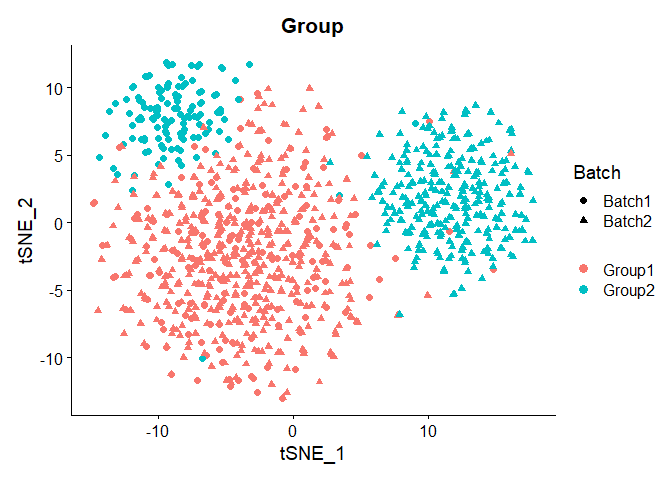
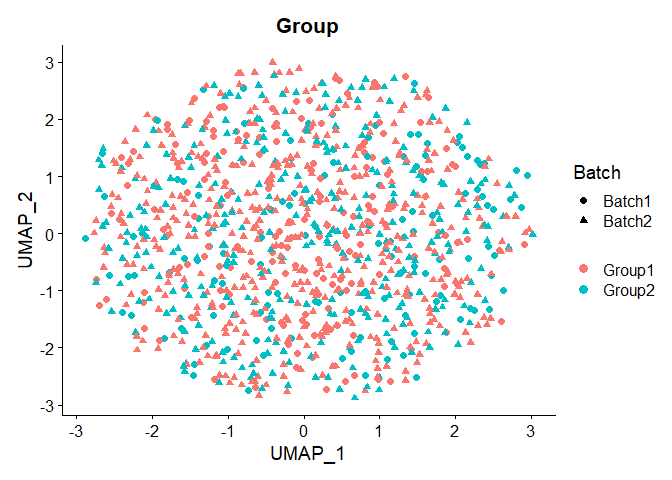
update

diff --git a/doc/Incomplete-association-simulation-with-Splatter.md b/doc/Incomplete-association-simulation-with-Splatter.md
@@ -1,6 +1,12 @@
 Incomplete association simulation with Splatter
 ================
 
+``` r
+rm(list=ls())
+
+library(splatter)
+```
+
     ## Loading required package: SingleCellExperiment
 
     ## Loading required package: SummarizedExperiment
@@ -95,6 +101,10 @@ Incomplete association simulation with Splatter
     ## 
     ##     anyMissing, rowMedians
 
+``` r
+library(Seurat)
+```
+
     ## Registered S3 method overwritten by 'spatstat.geom':
     ##   method     from
     ##   print.boxx cli
@@ -107,6 +117,21 @@ Incomplete association simulation with Splatter
     ## The following object is masked from 'package:SummarizedExperiment':
     ## 
     ##     Assays
+
+``` r
+sparsity_level = .95
+
+sim <- splatSimulate(group.prob=c(0.6, 0.4), nGenes=5000, batchCells=c(300, 750),
+                     dropout.type='experiment', method= 'groups' ,seed=17, dropout.shape=-1, 
+                     dropout.mid=3.9, 
+                     de.prob = c(0.05, 0.05),
+                     de.downProb = c(0.4, 0.4),
+                     de.facLoc = 0.05,
+                     de.facScale = 0.05,
+                     batch.facLoc=0.01,
+                     batch.facScale=0.01
+                    )
+```
 
     ## Getting parameters...
 
@@ -150,7 +175,18 @@ Incomplete association simulation with Splatter
 
     ## Done!
 
+``` r
+tmpcount = counts(sim)
+colsum = colSums(tmpcount == 0)
+simsparsity = sum(colsum)/(5000*(300 + 750))
+print("raw sparsity")
+```
+
     ## [1] "raw sparsity"
+
+``` r
+print(simsparsity)
+```
 
     ## [1] 0.8957535
 
@@ -216,7 +252,7 @@ seu <- SCTransform(seu)
 
     ## Calculating gene attributes
 
-    ## Wall clock passed: Time difference of 10.07501 secs
+    ## Wall clock passed: Time difference of 10.51683 secs
 
     ## Determine variable features
 
@@ -230,13 +266,40 @@ seu <- SCTransform(seu)
 # PCA
 seu <- RunPCA(seu, npcs = 30, verbose = FALSE)
 # TSNE
-seu <- RunTSNE(seu, dims = 1:30, seed.use = 7968)
+seu <- RunUMAP(seu, dims = 1:30, seed.use = 7968)
+```
 
-DimPlot(seu, reduction = "tsne",
+    ## Warning: The default method for RunUMAP has changed from calling Python UMAP via reticulate to the R-native UWOT using the cosine metric
+    ## To use Python UMAP via reticulate, set umap.method to 'umap-learn' and metric to 'correlation'
+    ## This message will be shown once per session
+
+    ## 09:20:12 UMAP embedding parameters a = 0.9922 b = 1.112
+
+    ## 09:20:12 Read 1050 rows and found 30 numeric columns
+
+    ## 09:20:12 Using Annoy for neighbor search, n_neighbors = 30
+
+    ## 09:20:12 Building Annoy index with metric = cosine, n_trees = 50
+
+    ## 0%   10   20   30   40   50   60   70   80   90   100%
+
+    ## [----|----|----|----|----|----|----|----|----|----|
+
+    ## **************************************************|
+    ## 09:20:12 Writing NN index file to temp file C:\Users\Hai\AppData\Local\Temp\RtmpATEtQ6\file394065b11dcf
+    ## 09:20:12 Searching Annoy index using 1 thread, search_k = 3000
+    ## 09:20:12 Annoy recall = 100%
+    ## 09:20:13 Commencing smooth kNN distance calibration using 1 thread
+    ## 09:20:13 Initializing from normalized Laplacian + noise
+    ## 09:20:13 Commencing optimization for 500 epochs, with 32940 positive edges
+    ## 09:20:16 Optimization finished
+
+``` r
+DimPlot(seu, reduction = "umap",
         group.by = "Group", shape.by="Batch", pt.size = 2,label = F, repel = T)
 ```
 
-![](Incomplete-association-simulation-with-Splatter_files/figure-gfm/unnamed-chunk-2-1.png)<!-- -->
+![](Incomplete-association-simulation-with-Splatter_files/figure-gfm/unnamed-chunk-3-1.png)<!-- -->
 
 ``` r
 #Incomplete association manipulation
@@ -256,22 +319,24 @@ tmp <- batch1[separated_DEG_1, tumor]
 for (g in rownames(tmp)){
   for (c in colnames(tmp)){
     prob = rbeta(1, a, b)
-    tmp[g, c] = rbinom(1, tmp[g, c], prob=prob)%/%3
+    tmp[g, c] = rbinom(1, tmp[g, c], prob=prob) %/% 2
   }
 }
 tmp <- round(tmp)
 tmp -> batch1[separated_DEG_1, tumor]
 
 ############################# batch 2
-non_DEG <- setdiff(non_DEG, separated_DEG_1)
-separated_DEG_2 = sample(non_DEG, N, replace=FALSE)
+separated_DEG_2 = sample(non_DEG, N/2, replace=FALSE)
+some_1 <- sample(separated_DEG_1, N/2, replace=FALSE)
+separated_DEG_2 = c(separated_DEG_2, some_1)
+  
 tumor = which(cellinfo$Group[which(cellinfo$Batch=='Batch2')]=='Group2')
 
 tmp <- batch2[separated_DEG_2, tumor]
 for (g in rownames(tmp)){
   for (c in colnames(tmp)){
     prob = rbeta(1, a, b)
-    tmp[g, c] = rbinom(1, tmp[g, c], prob=prob)%/%3
+    tmp[g, c] = rbinom(1, tmp[g, c], prob=prob) %/% 2
   }
 }
 tmp <- round(tmp)
@@ -299,7 +364,7 @@ seu <- SCTransform(seu)
 
     ##   |                                                                              |                                                                      |   0%  |                                                                              |==================                                                    |  25%  |                                                                              |===================================                                   |  50%  |                                                                              |====================================================                  |  75%  |                                                                              |======================================================================| 100%
 
-    ## Found 76 outliers - those will be ignored in fitting/regularization step
+    ## Found 83 outliers - those will be ignored in fitting/regularization step
 
     ## Second step: Get residuals using fitted parameters for 2402 genes
 
@@ -311,7 +376,7 @@ seu <- SCTransform(seu)
 
     ## Calculating gene attributes
 
-    ## Wall clock passed: Time difference of 10.00811 secs
+    ## Wall clock passed: Time difference of 9.790773 secs
 
     ## Determine variable features
 
@@ -325,10 +390,33 @@ seu <- SCTransform(seu)
 # PCA
 seu <- RunPCA(seu, npcs = 30, verbose = FALSE)
 # UMAP
-seu <- RunTSNE(seu, dims = 1:30, seed.use = 7968)
+seu <- RunUMAP(seu, dims = 1:30, seed.use = 7968)
+```
 
-DimPlot(seu, reduction = "tsne",
+    ## 09:20:57 UMAP embedding parameters a = 0.9922 b = 1.112
+
+    ## 09:20:57 Read 1050 rows and found 30 numeric columns
+
+    ## 09:20:57 Using Annoy for neighbor search, n_neighbors = 30
+
+    ## 09:20:57 Building Annoy index with metric = cosine, n_trees = 50
+
+    ## 0%   10   20   30   40   50   60   70   80   90   100%
+
+    ## [----|----|----|----|----|----|----|----|----|----|
+
+    ## **************************************************|
+    ## 09:20:57 Writing NN index file to temp file C:\Users\Hai\AppData\Local\Temp\RtmpATEtQ6\file394025a7773e
+    ## 09:20:57 Searching Annoy index using 1 thread, search_k = 3000
+    ## 09:20:57 Annoy recall = 100%
+    ## 09:20:57 Commencing smooth kNN distance calibration using 1 thread
+    ## 09:20:58 Initializing from normalized Laplacian + noise
+    ## 09:20:58 Commencing optimization for 500 epochs, with 33818 positive edges
+    ## 09:21:01 Optimization finished
+
+``` r
+DimPlot(seu, reduction = "umap",
         group.by = "Group", shape.by="Batch", pt.size = 2,label = F, repel = TRUE)
 ```
 
-![](Incomplete-association-simulation-with-Splatter_files/figure-gfm/unnamed-chunk-3-1.png)<!-- -->
+![](Incomplete-association-simulation-with-Splatter_files/figure-gfm/unnamed-chunk-4-1.png)<!-- -->
